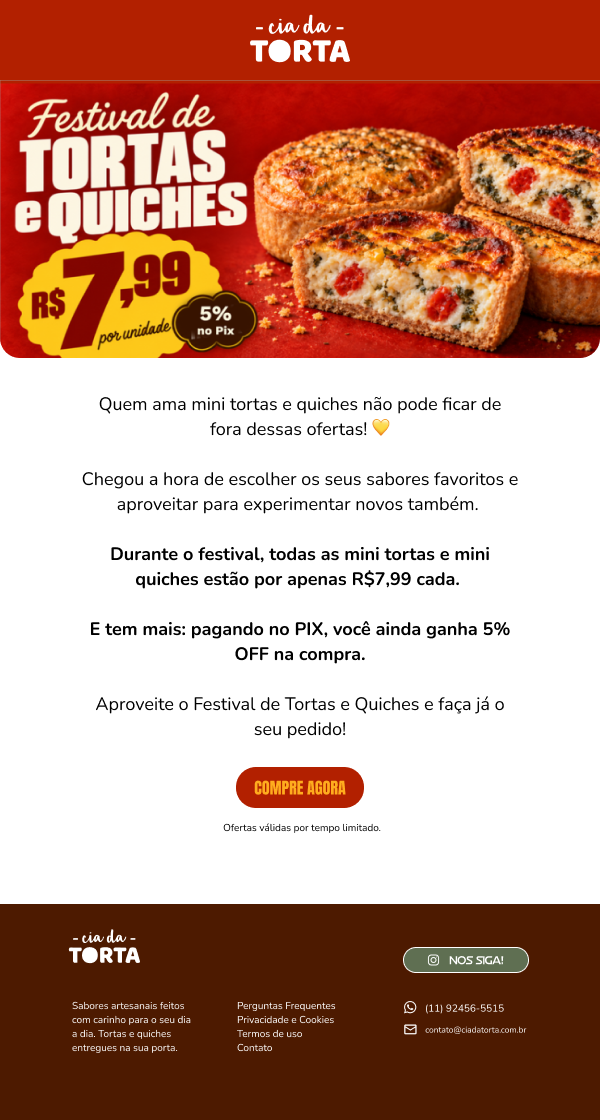
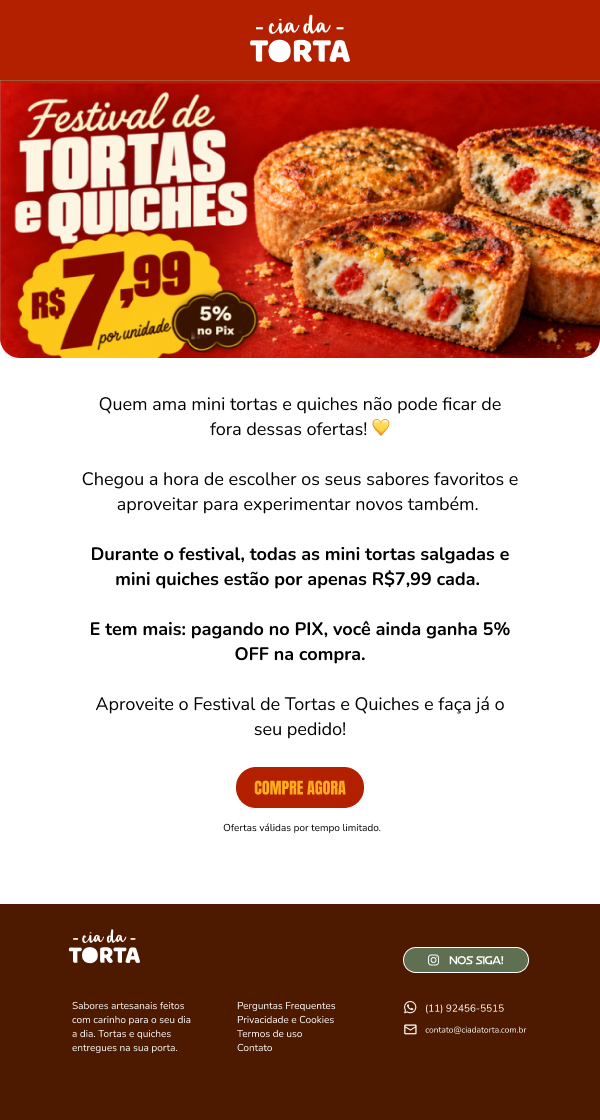
Update Cia festival 799 text

Changed region(s): [[0.15, 0.4688, 0.84, 0.5312]]

diff --git a/festival-799-2809/index.html b/festival-799-2809/index.html
@@ -36,7 +36,7 @@
         <tr><td class="body-pad" align="center" bgcolor="#ffffff" style="padding:34px 70px 38px;background:#ffffff;color:#111111;">
           <p style="margin:0 0 28px;color:#111111;font-family:Arial,Helvetica,sans-serif;font-size:19px;font-weight:400;line-height:1.35;text-align:center;">Quem ama mini tortas e quiches não pode ficar de fora dessas ofertas! 💛</p>
           <p style="margin:0 0 28px;color:#111111;font-family:Arial,Helvetica,sans-serif;font-size:19px;font-weight:400;line-height:1.35;text-align:center;">Chegou a hora de escolher os seus sabores favoritos e aproveitar para experimentar novos também.</p>
-          <p style="margin:0 0 28px;color:#111111;font-family:Arial,Helvetica,sans-serif;font-size:19px;font-weight:700;line-height:1.35;text-align:center;">Durante o festival, todas as mini tortas e mini quiches estão por apenas R$7,99 cada.</p>
+          <p style="margin:0 0 28px;color:#111111;font-family:Arial,Helvetica,sans-serif;font-size:19px;font-weight:700;line-height:1.35;text-align:center;">Durante o festival, todas as mini tortas salgadas e mini quiches estão por apenas R$7,99 cada.</p>
           <p style="margin:0 0 28px;color:#111111;font-family:Arial,Helvetica,sans-serif;font-size:19px;font-weight:700;line-height:1.35;text-align:center;">E tem mais: pagando no PIX, você ainda ganha 5% OFF na compra.</p>
           <p style="margin:0 0 28px;color:#111111;font-family:Arial,Helvetica,sans-serif;font-size:19px;font-weight:400;line-height:1.35;text-align:center;">Aproveite o Festival de Tortas e Quiches e faça já o seu pedido!</p>
           <table role="presentation" cellpadding="0" cellspacing="0" border="0" style="border-collapse:collapse;margin:0 auto;">
